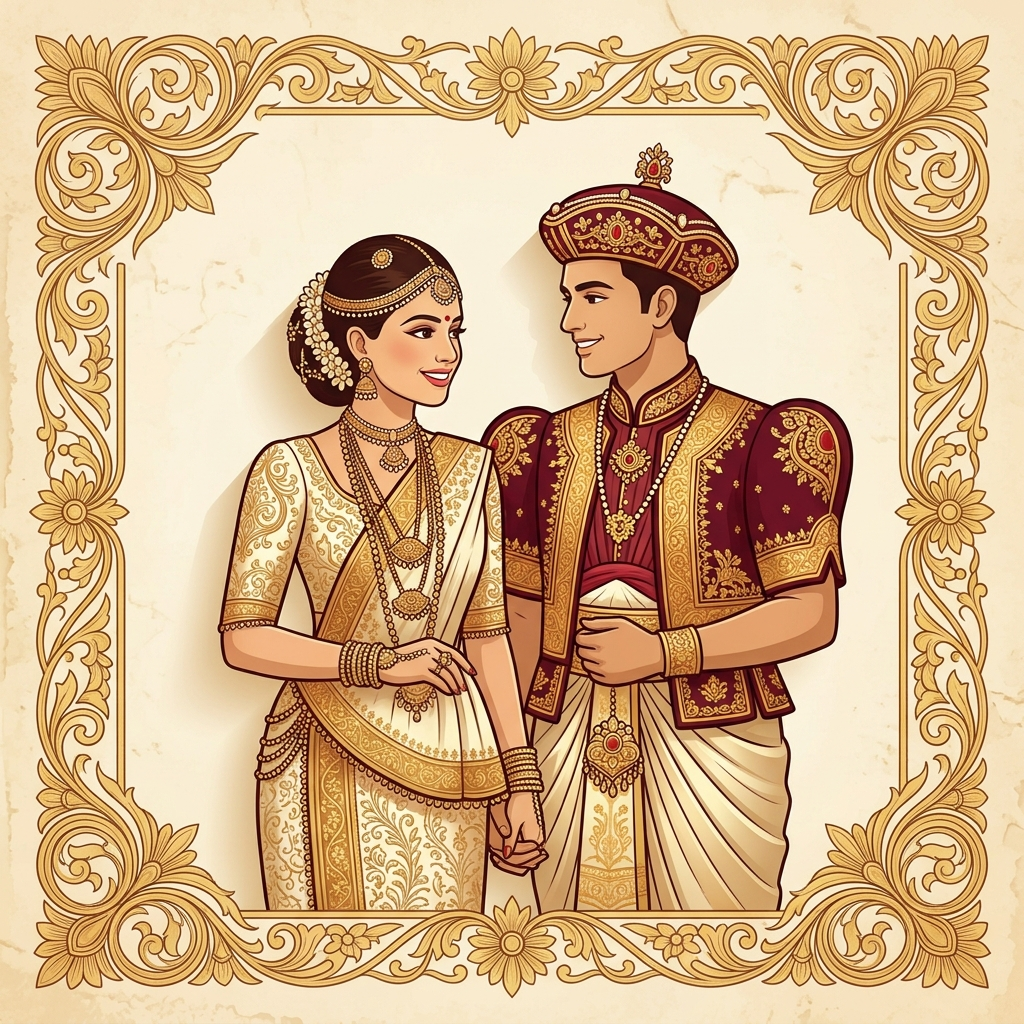
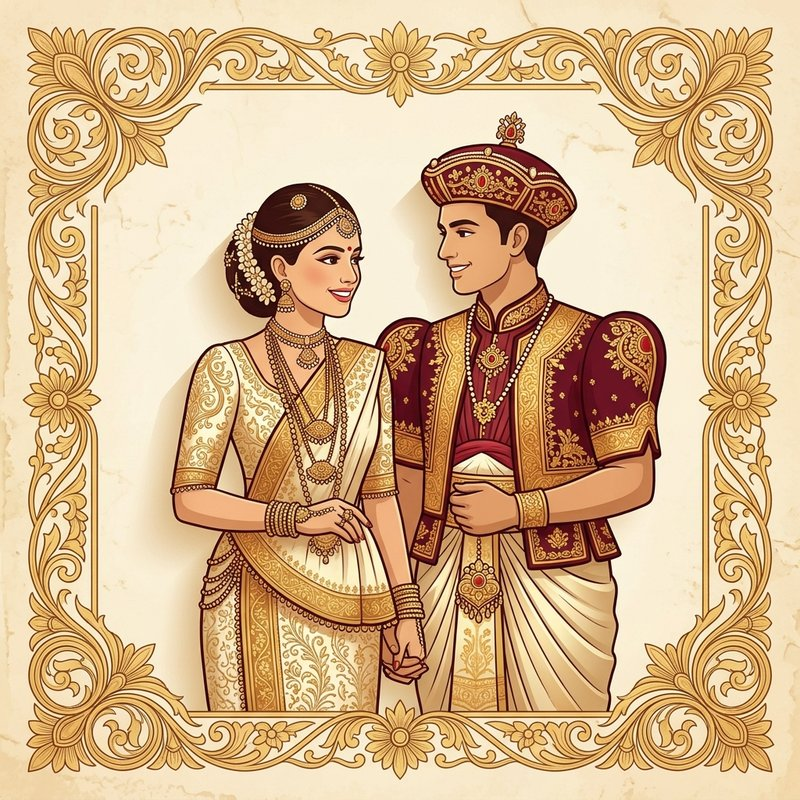
Describe your change8888888888888s

diff --git a/index.html b/index.html
@@ -18,8 +18,8 @@
   <meta property="og:image" content="https://chinesh-dulakshi-wedding-invitation-nine.vercel.app/preview.jpg" />
   <meta property="og:image:secure_url" content="https://chinesh-dulakshi-wedding-invitation-nine.vercel.app/preview.jpg" />
   <meta property="og:image:type" content="image/jpeg" />
-  <meta property="og:image:width" content="1024" />
-  <meta property="og:image:height" content="1024" />
+  <meta property="og:image:width" content="800" />
+  <meta property="og:image:height" content="800" />
   <meta property="og:image:alt" content="චිනේෂ් සහ දුලක්ෂි | Chinesh & Dulakshi - Wedding Invitation" />
 
   <!-- Twitter Meta Tags -->
